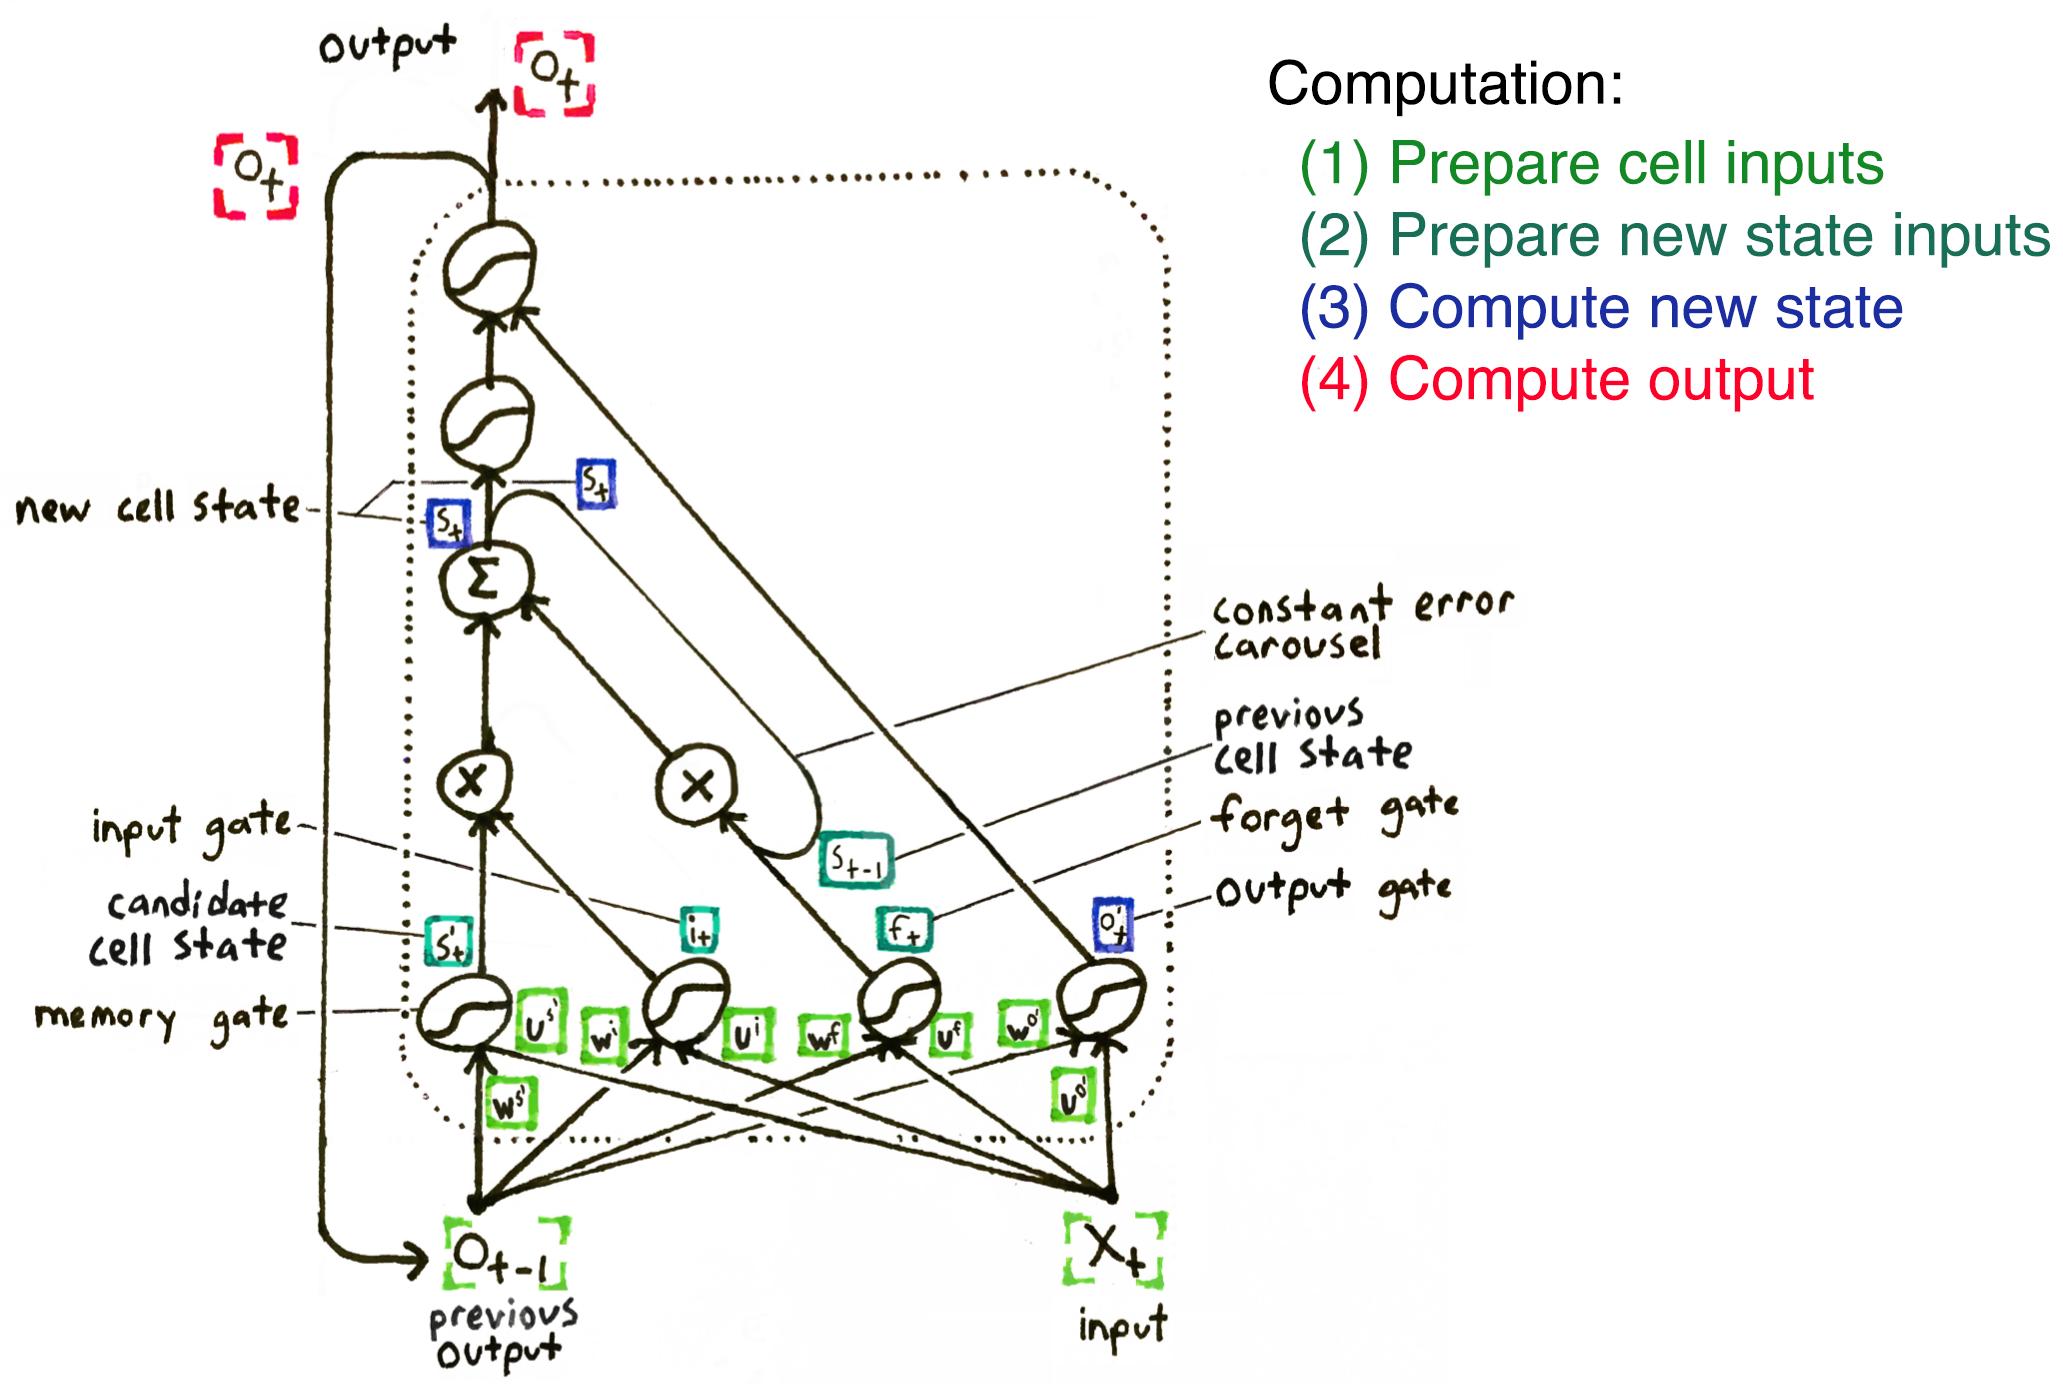
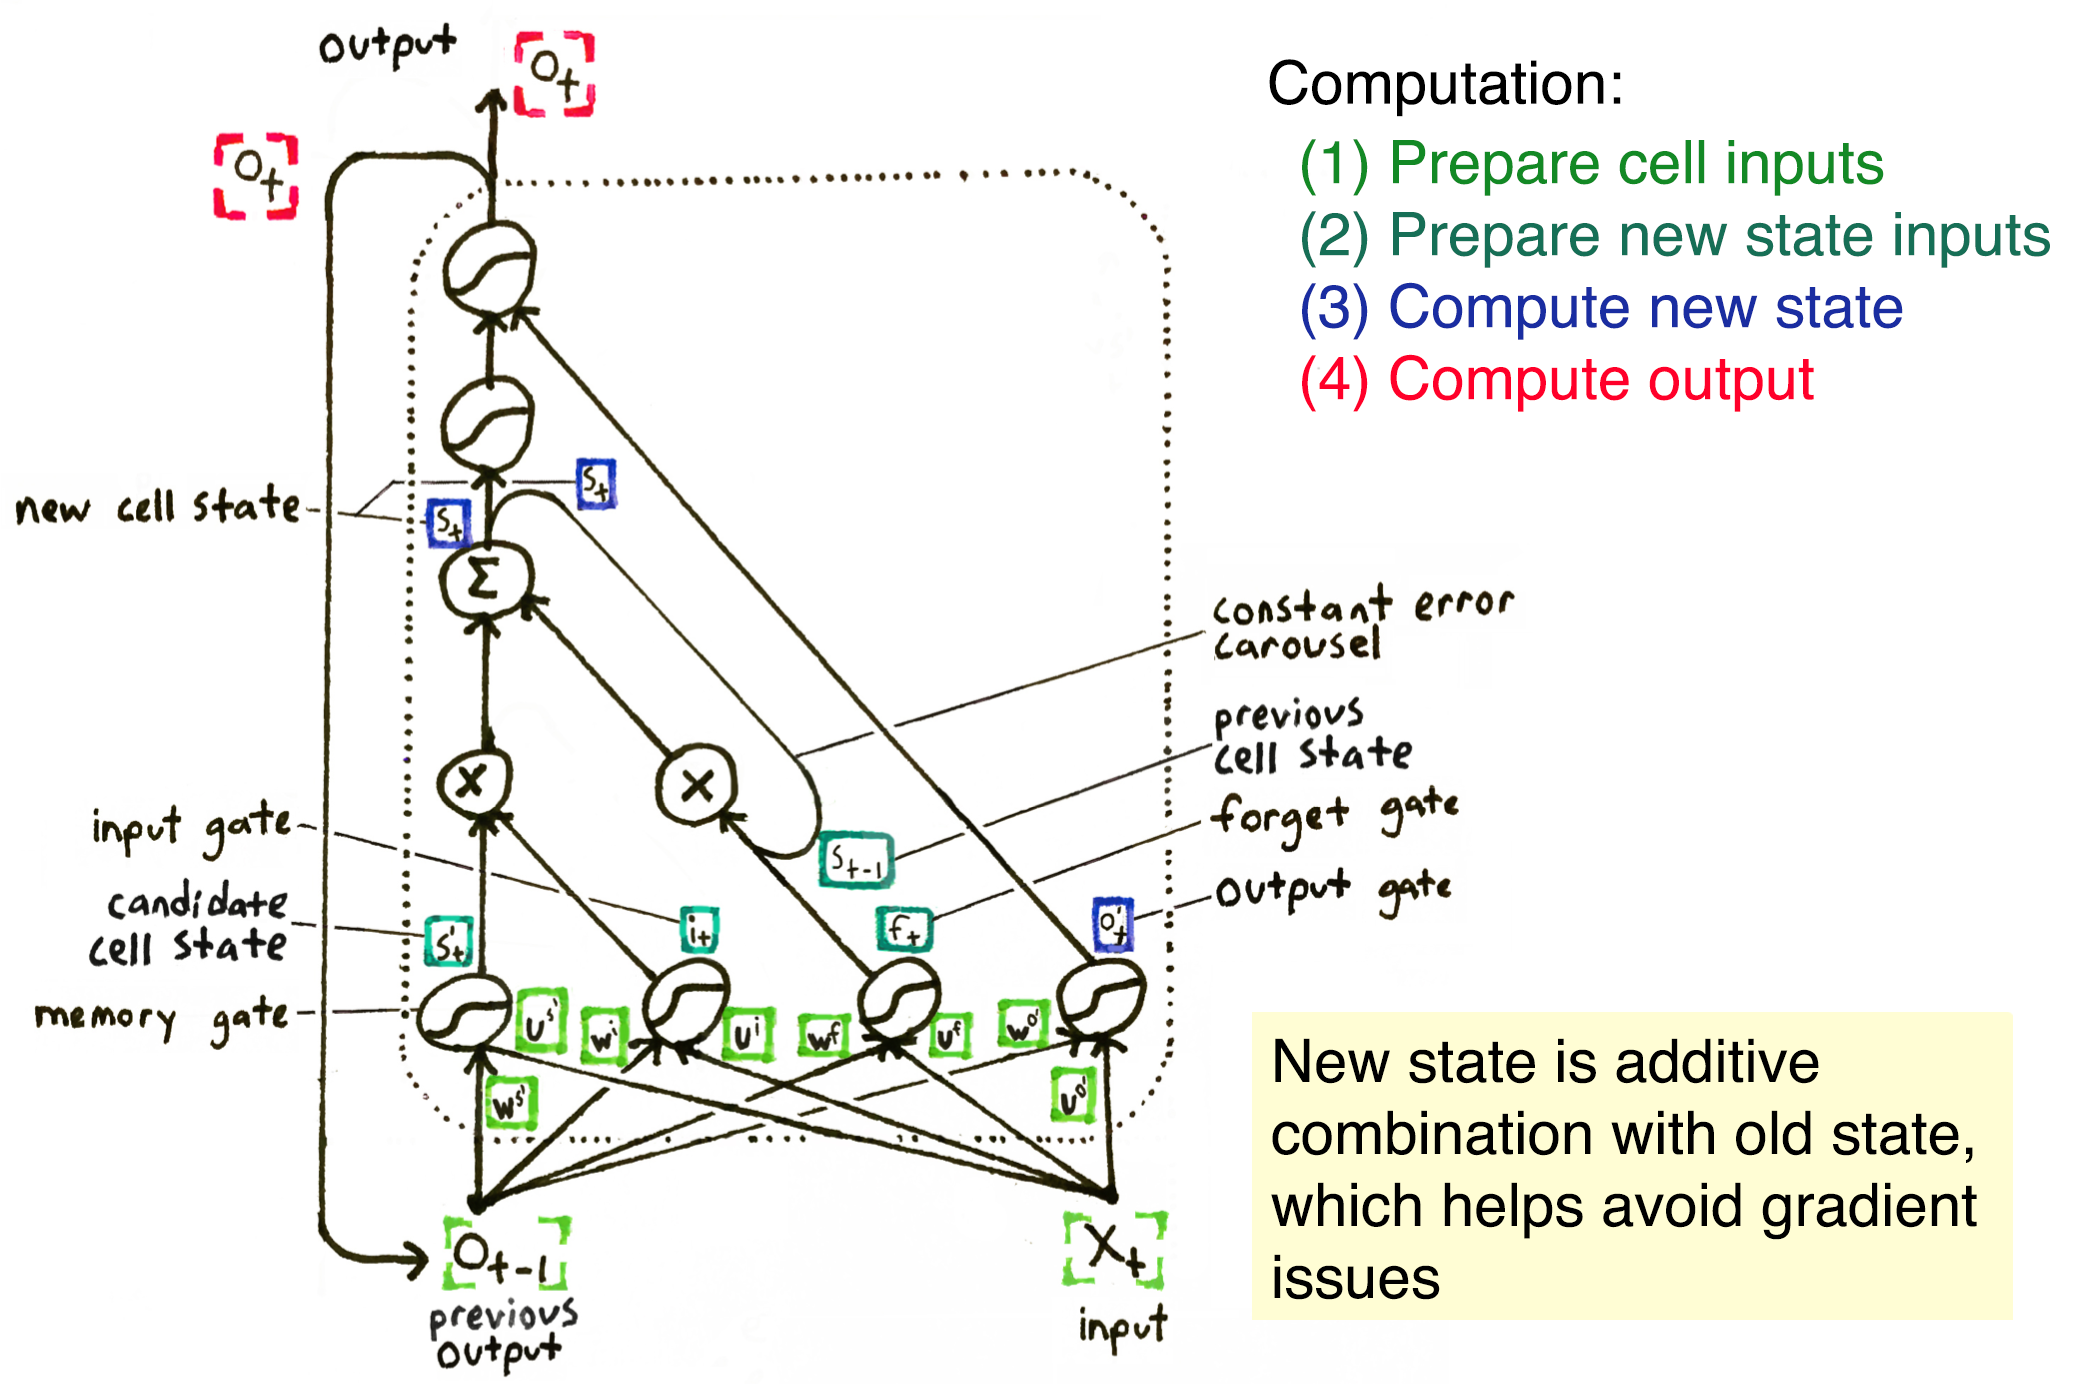
deep changes

diff --git a/lectures/deep.js b/lectures/deep.js
@@ -453,54 +453,65 @@ add(slide('Simple recurrent network',
 _).leftHeader('[Elman, 1990]'));
 
 add(slide('Vanishing gradient problem',
-  //parentCenter(encoderDecoder('$x_1$ $x_2$ $x_3$ $x_4$ $x_5$ $x_6$ $x_7$ $x_8$ $x_9$ $x_{10}$ $x_{11}$ $x_{12}$ $x_{13}$ $x_{14}$', null, {genSource: true, hidden: true, d: d = 4}).scale(0.75)),
-  parentCenter(encoderDecoder('$x_1$ $x_2$ $x_3$ $x_4$ $x_5$', null, {genSource: true, hidden: true, d: d = 4}).scale(0.75)),
-  parentCenter('(set $x_1 = 1, x_2 = x_3 = \\cdots = 0, \\sigma = $ identity function)').scale(0.7),
-  pause(),
-  //parentCenter(xtable('$h_5 =$', '$\\sigma($', vectorBox('$V$', d, d, 'blue'), '$\\sigma($', vectorBox('$V$', d, d, 'blue'), '$\\sigma($', vectorBox('$V$', d, d, 'blue'), '$\\sigma($', vectorBox('$V$', d, d, 'blue'), vectorBox('$h_1$', d), '$))))$').center()),
-  nil(),
-  parentCenter(xtable('$h_5 =$', vectorBox('$V$', d, d, 'blue'), vectorBox('$V$', d, d, 'blue'), vectorBox('$V$', d, d, 'blue'), vectorBox('$V$', d, d, 'blue'), vectorBox('$W$', d, nx, 'blue'), vectorBox('$x_1$', nx)).center().margin(10)),
-  pause(),
-  'If $V = 0.1$, then',
-  bulletedText(stmt('Value: $h_t = \\brown{0.1^{t-1}} W$')),
-  bulletedText(stmt('Gradient: $\\frac{\\partial h_t}{\\partial W} = \\brown{0.1^{t-1}}$ (vanishes as length increases)')),
+  parentCenter(image('images/rnn-gradients-1.png').width(700)),
+  bulletedText('RNNs can have long or short dependancies'),
+  bulletedText('When there are long dependancies, gradients have trouble backpropagating through'),
 _));
 
-add(slide('Additive combinations',
-  parentCenter(encoderDecoder('$x_1$ $x_2$ $x_3$ $x_4$ $x_5$', null, {genSource: true, hidden: true, d: d = 4}).scale(0.75)),
-  stmt('What if'),
-  parentCenter('$h_t = h_{t-1} + W x_t$'),
-  pause(),
-  stmt('Then'),
-  parentCenter('(set $x_1 = 1, x_2 = x_3 = \\cdots = 0, \\sigma = $ identity function)').scale(0.7),
-  bulletedText(stmt('Value: $h_t = W$')),
-  bulletedText(stmt('Gradient: $\\frac{\\partial h_t}{\\partial W} = 1$ for any $t$')),
+add(slide('Vanishing gradient problem',
+  parentCenter(image('images/rnn-gradients-2.png').width(700)),
 _));
+
+
+// add(slide('Vanishing gradient problem',
+//   //parentCenter(encoderDecoder('$x_1$ $x_2$ $x_3$ $x_4$ $x_5$ $x_6$ $x_7$ $x_8$ $x_9$ $x_{10}$ $x_{11}$ $x_{12}$ $x_{13}$ $x_{14}$', null, {genSource: true, hidden: true, d: d = 4}).scale(0.75)),
+//   parentCenter(encoderDecoder('$x_1$ $x_2$ $x_3$ $x_4$ $x_5$', null, {genSource: true, hidden: true, d: d = 4}).scale(0.75)),
+//   parentCenter('(set $x_1 = 1, x_2 = x_3 = \\cdots = 0, \\sigma = $ identity function)').scale(0.7),
+//   pause(),
+//   //parentCenter(xtable('$h_5 =$', '$\\sigma($', vectorBox('$V$', d, d, 'blue'), '$\\sigma($', vectorBox('$V$', d, d, 'blue'), '$\\sigma($', vectorBox('$V$', d, d, 'blue'), '$\\sigma($', vectorBox('$V$', d, d, 'blue'), vectorBox('$h_1$', d), '$))))$').center()),
+//   nil(),
+//   parentCenter(xtable('$h_5 =$', vectorBox('$V$', d, d, 'blue'), vectorBox('$V$', d, d, 'blue'), vectorBox('$V$', d, d, 'blue'), vectorBox('$V$', d, d, 'blue'), vectorBox('$W$', d, nx, 'blue'), vectorBox('$x_1$', nx)).center().margin(10)),
+//   pause(),
+//   'If $V = 0.1$, then',
+//   bulletedText(stmt('Value: $h_t = \\brown{0.1^{t-1}} W$')),
+//   bulletedText(stmt('Gradient: $\\frac{\\partial h_t}{\\partial W} = \\brown{0.1^{t-1}}$ (vanishes as length increases)')),
+// _));
+
+// add(slide('Additive combinations',
+//   parentCenter(encoderDecoder('$x_1$ $x_2$ $x_3$ $x_4$ $x_5$', null, {genSource: true, hidden: true, d: d = 4}).scale(0.75)),
+//   stmt('What if'),
+//   parentCenter('$h_t = h_{t-1} + W x_t$'),
+//   pause(),
+//   stmt('Then'),
+//   parentCenter('(set $x_1 = 1, x_2 = x_3 = \\cdots = 0, \\sigma = $ identity function)').scale(0.7),
+//   bulletedText(stmt('Value: $h_t = W$')),
+//   bulletedText(stmt('Gradient: $\\frac{\\partial h_t}{\\partial W} = 1$ for any $t$')),
+// _));
+
+// add(slide('Long Short Term Memory (LSTM)',
+//   stmt('API'),
+//   parentCenter('$(h_t, c_t) = \\text{LSTM}(h_{t-1}, c_{t-1}, x_t)$'),
+//   pause(),
+//   ytable(
+//     stmt('Input gate'),
+//     indent('$i_t = \\sigma(W_i x_t + U_i h_{t-1} + V_i c_{t-1} + b_i)$'),
+//     stmt('Forget gate (initialize with $b_f$ large, so close to $1$)'),
+//     indent('$f_t = \\sigma(W_f x_t + U_f h_{t-1} + V_f c_{t-1} + b_f)$'),
+//     pause(),
+//     stmt('Cell: additive combination of '+red('RNN update')+' with '+blue('previous cell')),
+//     indent('$c_t = i_t \\odot \\red{\\tanh(W_c x_t + U_c h_{t-1} + b_c)} + f_t \\odot \\blue{c_{t-1}}$'),
+//     pause(),
+//     stmt('Output gate'),
+//     indent('$o_t = \\sigma(W_o x_t + U_o h_{t-1} + V_o c_t + b_o)$'),
+//     stmt('Hidden state'),
+//     indent('$h_t = o_t \\odot \\tanh(c_t)$'),
+//   _).scale(0.85),
+//   //parentCenter(xtable('$\\Encode(h_{t-1}, x_t) = \\sigma($', vectorBox('$V$', d, d, 'blue'), vectorBox('$h_{t-1}$', d), '$+$', vectorBox('$W$', d, nx = 8, 'blue'), vectorBox('$x_t$', nx), '$) =$', vectorBox('$h_t$', d)).center()),
+// _).leftHeader('[Schmidhuber &amp; Hochreiter, 1997]'));
 
 add(slide('Long Short Term Memory (LSTM)',
-  stmt('API'),
-  parentCenter('$(h_t, c_t) = \\text{LSTM}(h_{t-1}, c_{t-1}, x_t)$'),
-  pause(),
-  ytable(
-    stmt('Input gate'),
-    indent('$i_t = \\sigma(W_i x_t + U_i h_{t-1} + V_i c_{t-1} + b_i)$'),
-    stmt('Forget gate (initialize with $b_f$ large, so close to $1$)'),
-    indent('$f_t = \\sigma(W_f x_t + U_f h_{t-1} + V_f c_{t-1} + b_f)$'),
-    pause(),
-    stmt('Cell: additive combination of '+red('RNN update')+' with '+blue('previous cell')),
-    indent('$c_t = i_t \\odot \\red{\\tanh(W_c x_t + U_c h_{t-1} + b_c)} + f_t \\odot \\blue{c_{t-1}}$'),
-    pause(),
-    stmt('Output gate'),
-    indent('$o_t = \\sigma(W_o x_t + U_o h_{t-1} + V_o c_t + b_o)$'),
-    stmt('Hidden state'),
-    indent('$h_t = o_t \\odot \\tanh(c_t)$'),
-  _).scale(0.85),
-  //parentCenter(xtable('$\\Encode(h_{t-1}, x_t) = \\sigma($', vectorBox('$V$', d, d, 'blue'), vectorBox('$h_{t-1}$', d), '$+$', vectorBox('$W$', d, nx = 8, 'blue'), vectorBox('$x_t$', nx), '$) =$', vectorBox('$h_t$', d)).center()),
+  parentCenter(image('images/lstm-intuition.png').width(730)),
 _).leftHeader('[Schmidhuber &amp; Hochreiter, 1997]'));
-
-add(slide('LSTM Intuition',
-  parentCenter(image('images/lstm-intuition.png').width(700)),
-_));
 
 
 add(slide('Character-level language modeling',
